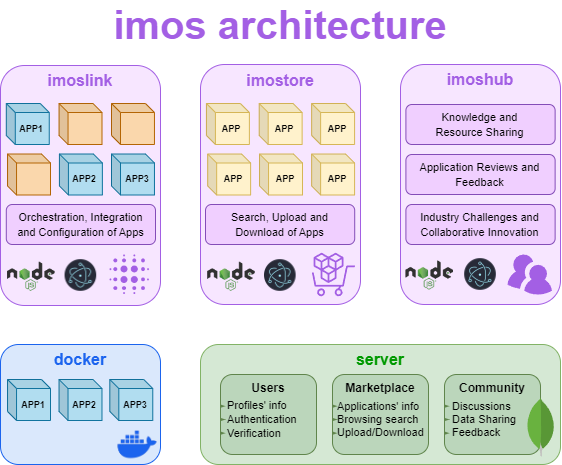
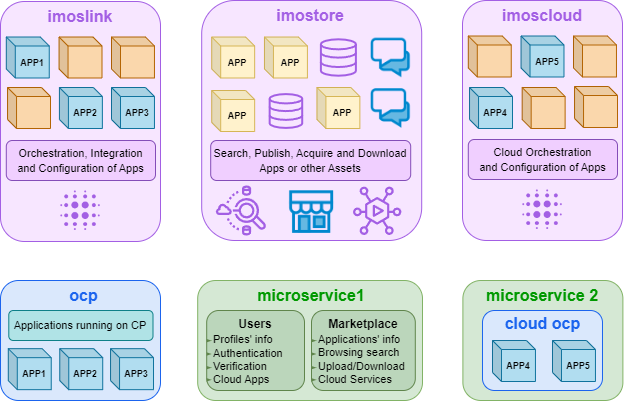
documentation

diff --git a/README.md b/README.md
@@ -2,14 +2,46 @@
     <a href="https://github.com/altsmpegado/imos"><img src="utils/images/imos_banner.svg" style="width:100%;"></a>
 </div>
 <br>
-<p align="center">Welcome to the Industry Modular Operating System built on top of <a href="https://www.docker.com/" target="_blank">Docker</a> and powered by <a href="http://electron.atom.io" target="_blank">Electron</a>. Offering integration and deploymenty tools (imoslink), an industry-oriented marketplace (imostore) and a collaborative hub (imoshub). This is a work in a progress a not a final product.</p>
-
+<p align="center">Welcome to the Industry Modular Operating System repository, built on top of <a href="https://www.docker.com/" target="_blank">Docker</a> and powered by <a href="http://electron.atom.io" target="_blank">Electron</a>. Offering integration and deploymenty tools (IMOSlink), an industry-oriented marketplace (IMOStore) and a collaborative hub (IMOShub). This is a work in a progress a not a final product. <b>To collaborate on this project feel free to contact me, lets buid IMOS together, a platform built by the industry for the industry</b>.</p>
 
 <p align="center">
-  <a href="#key-features">Key Features</a> •
-  <a href="#platform">Platform</a> •
+  <a href="#how-to-use">Overview</a> •
+  <a href="#how-to-use">Requirements</a> •
   <a href="#how-to-use">How To Use</a> •
+  <a href="#platform">Platform</a> •
+  <a href="#key-features">Key Features</a>
 </p>
+
+## Overview
+IMOS is a modular platform designed to help small and medium-sized enterprises navigate the shift from I4.0 to I5.0. It enhances software integration, distribution, and collaboration by offering containerized software solutions and emphasizing sustainability and the importance of collaborative networks. IMOS supports the execution of both on-premise and cloud applications. The platform enables seamless interaction and resource-sharing between developers and industrial managers to foster innovation and problem-solving.
+## Requirements
+## How To Use
+## Platform
+IMOS, powered by Docker and built with NodeJS and Electron, facilitates software distribution and integration, serving as the central orchestrating component for interconnected containers in a modular system, communicating and launching other applications based on user input.
+<br>
+<br>
+Through IMOS and the IMOSlink app, users seamlessly integrate their software applications or acquire solutions from IMOStore within the platform. This integration enables configuration of applications and connection of their execution with intended endpoints. Users can open each application from the home screen and manage their execution with IMOSlink. 
+<br>
+<p align="center">
+  <picture>
+    <source media="(prefers-color-scheme: dark)" srcset="utils/images/platform-dark.png">
+    <source media="(prefers-color-scheme: light)" srcset="utils/images/platform-light.png">
+    <img src="utils/images/platform-light.png">
+  </picture>
+</p>
+The IMOSlink app serves as a bridge between Docker and the user, orchestrating installed applications and connecting hardware endpoints to software applications. Docker's integration, distribution, and modularity capabilities make it ideal for IMOS, ensuring seamless compatibility and efficient management of containerized applications. 
+<br>
+<br>
+IMOStore and IMOShub are the other two modules within the IMOS platform, and perhaps the most important as they aim to support SMEs. IMOStore allows users to explore and acquire applications or submit their own for review and distribution. IMOShub facilitates collaboration, knowledge sharing, and resource exchange among users from different backgrounds and roles.
+<br>
+<br>
+(Although the IMOShub module has been conceptualized, it is still under development). 
+<br>
+<br>
+Finally, IMOScloud was added to the design and implemented to provide a cloud environment for executing IMOStore published applications. It can be viewed as a Cloud Computing tool for orchestrating and executing several, yet verified applications.
+<br>
+<br>
+These modules and in-built apps are hosted on IMOS servers, using Express microservices for managing user information, authentication, marketplace functionalities, and cloud apps execution. Data generated from user profiles, marketplace application distribution, and community interactions are stored in two separate MongoDB clusters.
 
 ## Key Features
 
@@ -20,32 +52,3 @@
 * **Innovation**. Exposure to a wide range of potential customers encourages software vendors to innovate and address manufacturing concerns. Manufacturing organizations benefit from increased effectiveness and quality of operations and regular software updates.
 * **Data Feedback Loop**. Applications can return data to the IMOStore, helping software suppliers refine their solutions based on empirical findings.
 * **Monetization**. Software companies can generate income and increase visibility by monetizing their apps and services through the IMOStore. Manufacturing companies save money by paying only for the apps they need or even monetizing collected data from industrial processes.
-
-## Platform
-Through IMOS and the IMOSlink app, users seamlessly integrate their software applications or acquire solutions from IMOStore within the platform. This integration enables configuration of applications and connection of their execution with intended endpoints. Users can open each application from the home screen and manage their execution with IMOSlink. 
-<br>
-<br>
-IMOS, built on Docker and NodeJS with Electron, facilitates backend and frontend development and modularity, serving as the central orchestrating component for interconnected containers, communicating with and launching other applications based on user input.
-<br>
-<br>
-<p align="center">
-  <picture>
-    <source media="(prefers-color-scheme: dark)" srcset="utils/images/platform-dark.png">
-    <source media="(prefers-color-scheme: light)" srcset="utils/images/platform-light.png">
-    <img src="utils/images/platform-light.png">
-  </picture>
-</p>
-<br>
-<br>
-The IMOSlink app serves as a bridge between Docker and the user, orchestrating installed applications and connecting hardware endpoints to software applications. Docker's integration, distribution, and modularity capabilities make it ideal for IMOS, ensuring seamless compatibility and efficient management of containerized applications. 
-<br>
-<br>
-IMOStore and IMOShub are the other two modules within the IMOS platform, forming its core. IMOStore allows users to explore and acquire applications or submit their own for review and distribution. IMOShub facilitates collaboration, knowledge sharing, and resource exchange among users from different backgrounds and roles. 
-<br>
-<br>
-These apps are hosted on IMOS servers, using Express microservices for managing user information, authentication, marketplace functionalities, and community posts. Data generated from user profiles, marketplace application distribution, and community interactions is stored in separate MongoDB clusters.
-
-## Requirements
-
-## How To Use
-
